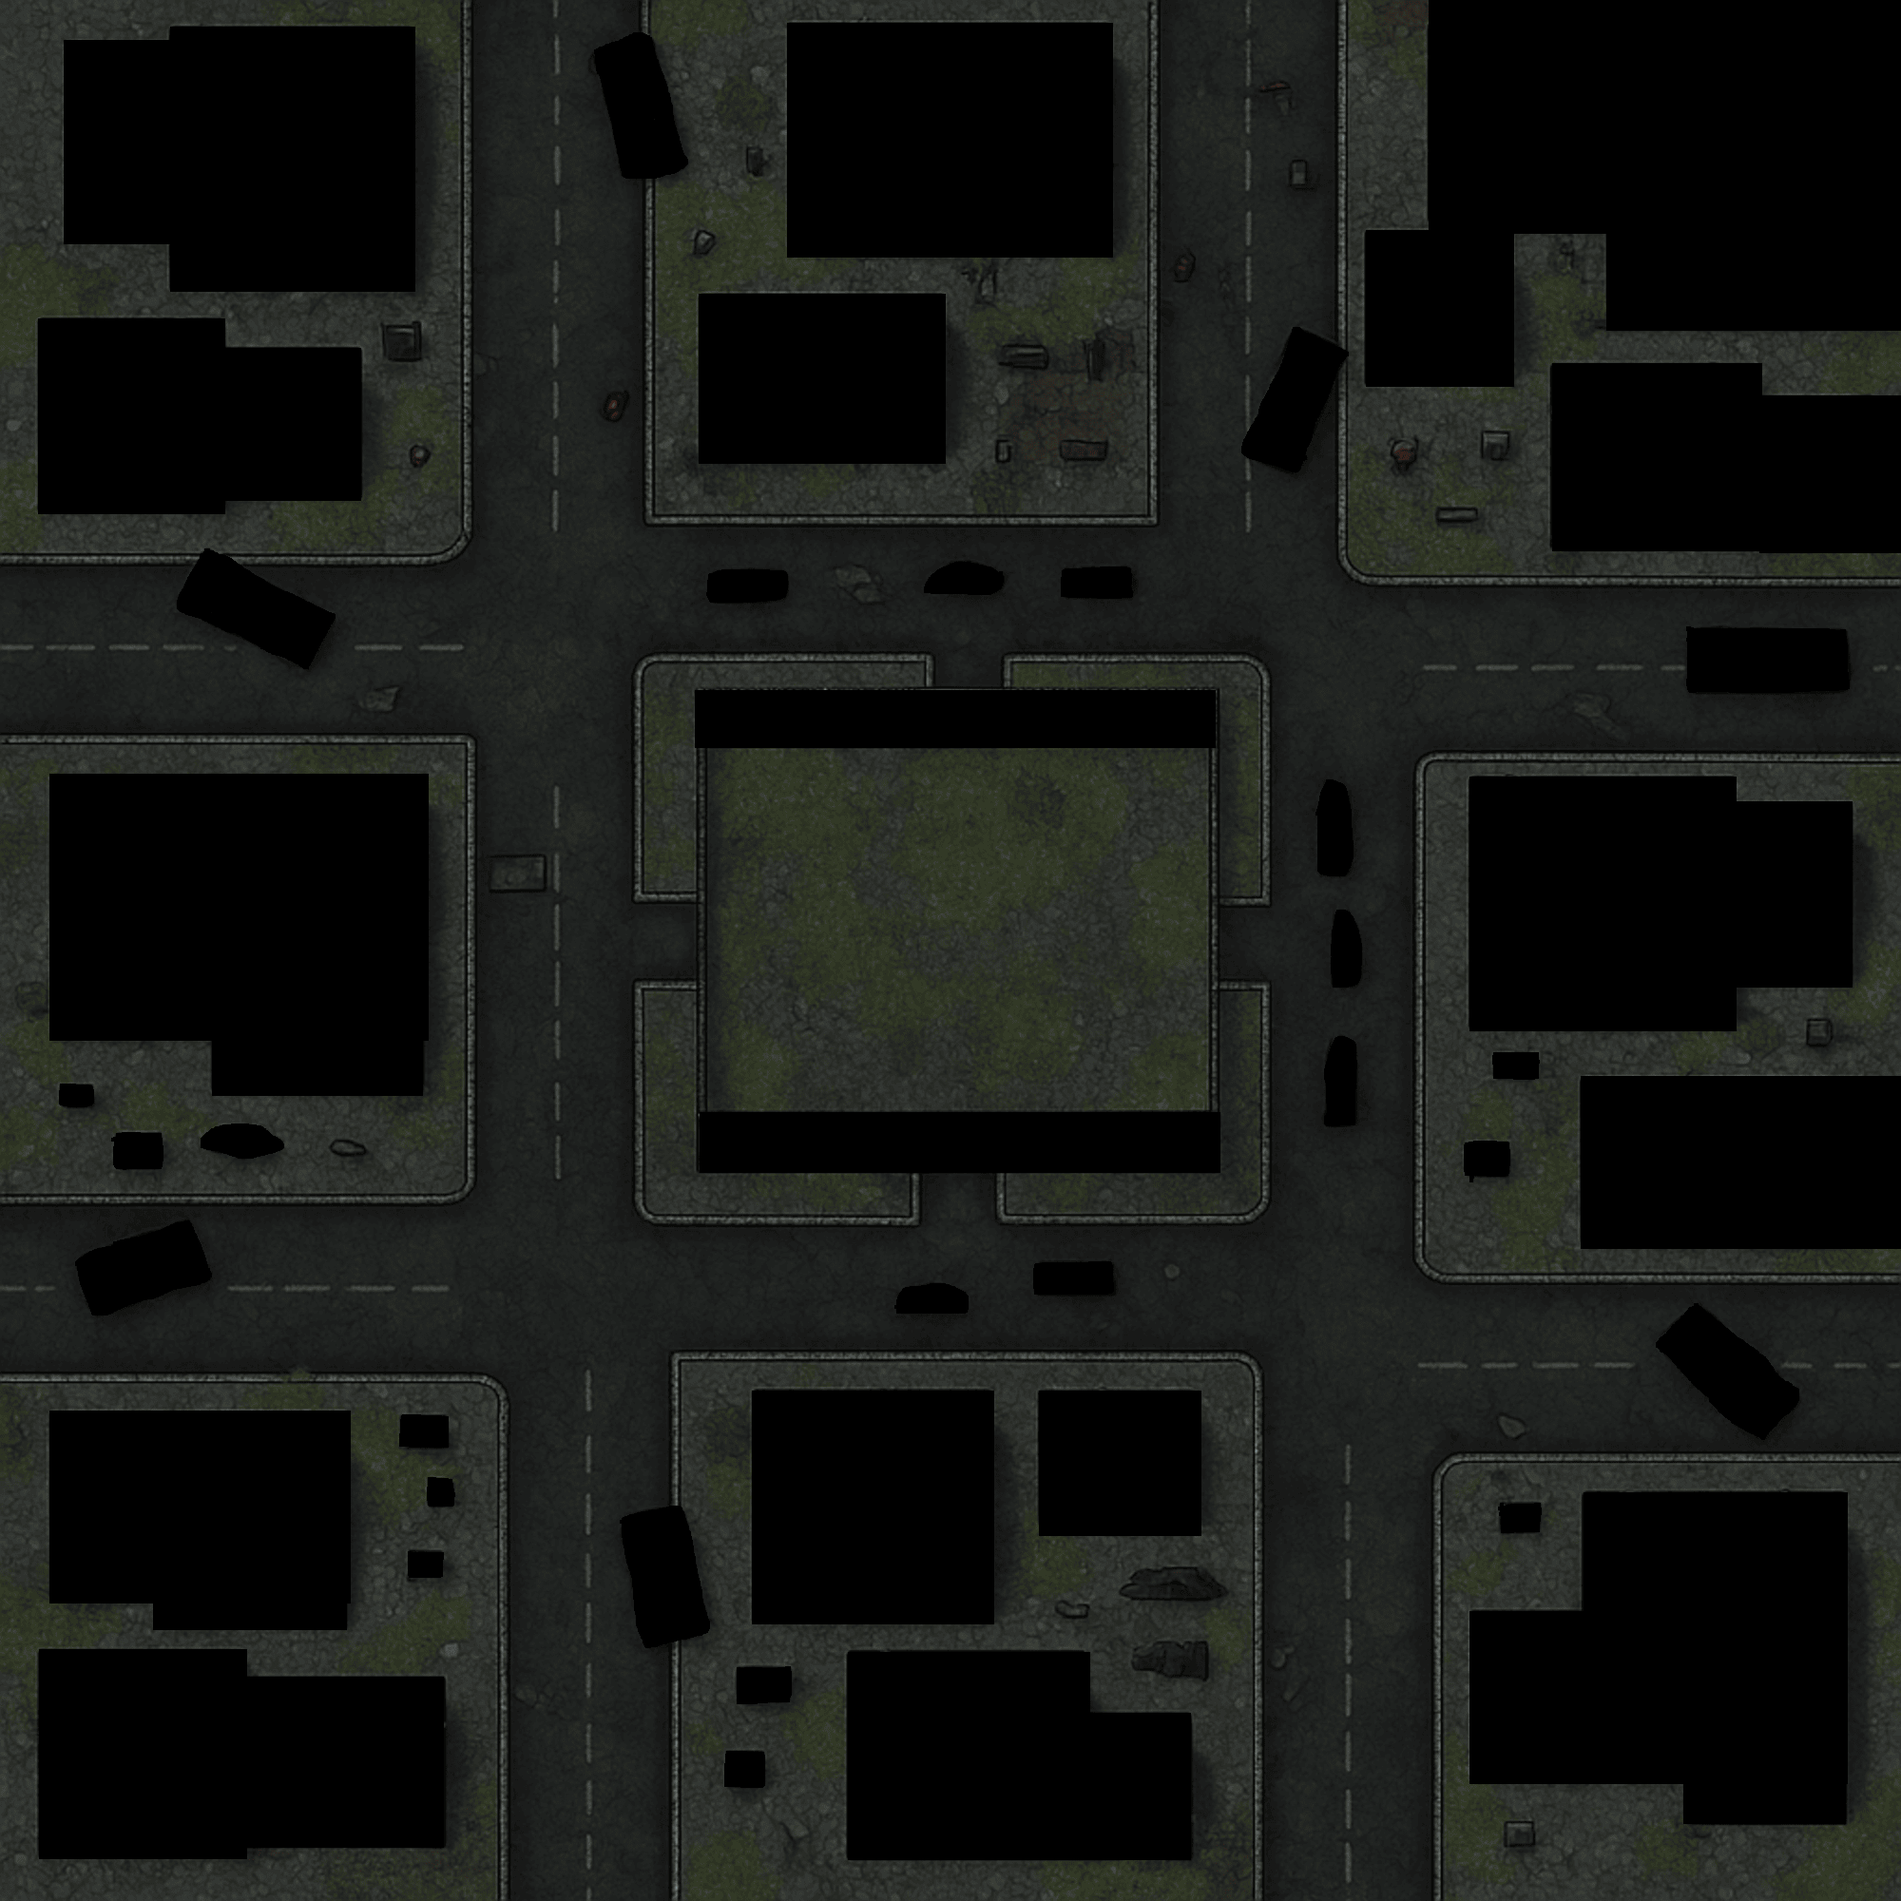
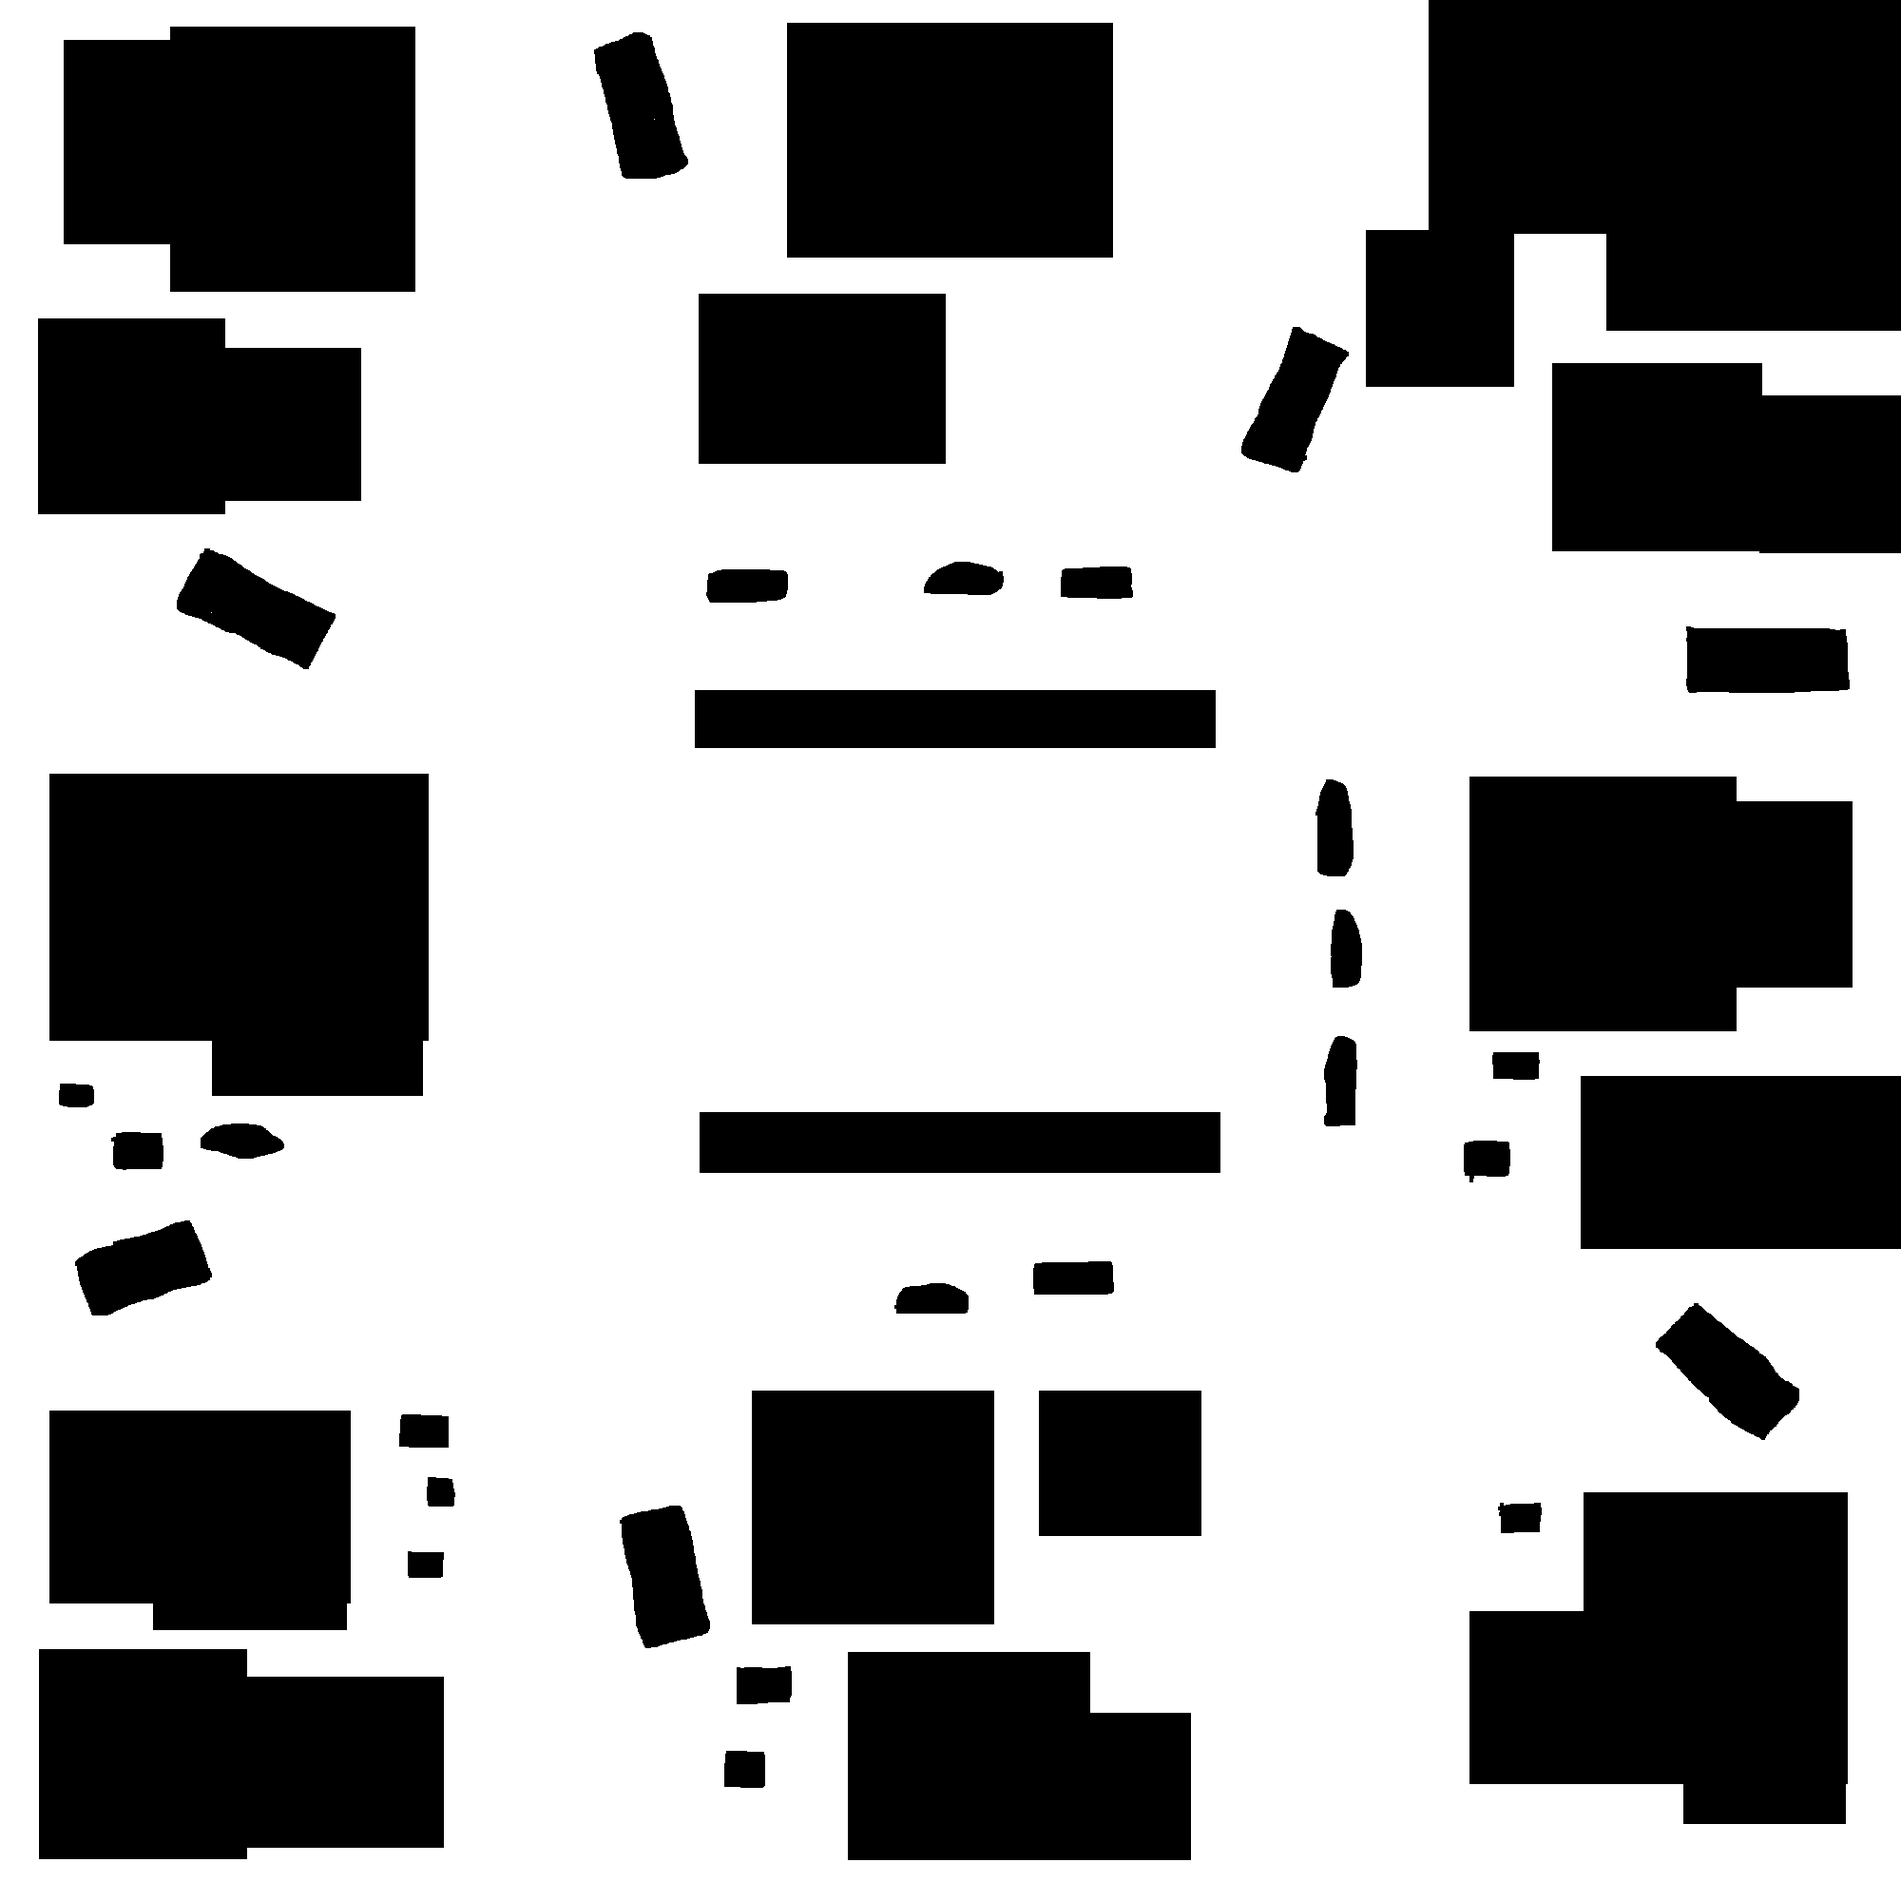
Zombie ai implemented

diff --git a/gameverse/client/src/ZombieArena/ZombieArena.js b/gameverse/client/src/ZombieArena/ZombieArena.js
@@ -23,6 +23,7 @@ import reload17 from "../assets/sprites/reloading/survivor-reload_rifle_16.png";
 import reload18 from "../assets/sprites/reloading/survivor-reload_rifle_17.png";
 import reload19 from "../assets/sprites/reloading/survivor-reload_rifle_18.png";
 import zombie from "../assets/sprites/zombie.png";
+import { aStar } from "./pathfinding";
 
 const CANVAS_WIDTH = 800;
 const CANVAS_HEIGHT = 600;
@@ -74,6 +75,8 @@ function ZombieArena() {
   const bgImageRef = useRef(new Image());
   const spriteImageRef = useRef(new Image());
   const bulletImageRef = useRef(new Image());
+  const pathfindingGridRef = useRef([]);
+  const isGridReadyRef = useRef(false);
   const reloadImages = useRef(
     RELOAD_FRAMES.map((src) => {
       const img = new Image();
@@ -113,32 +116,77 @@ function ZombieArena() {
     zombieSpriteRef.current.src = zombie;
     obstacleImageRef.current.src = mapImageObstacles;
     obstacleImageRef.current.onload = () => {
-      obstacleCanvasRef.current.width = obstacleImageRef.current.width;
-      obstacleCanvasRef.current.height = obstacleImageRef.current.height;
+      obstacleCanvasRef.current.width = WORLD_WIDTH;
+      obstacleCanvasRef.current.height = WORLD_HEIGHT;
       obstacleCtxRef.current = obstacleCanvasRef.current.getContext("2d");
-      obstacleCtxRef.current.drawImage(obstacleImageRef.current, 0, 0);
+      obstacleCtxRef.current.imageSmoothingEnabled = false;
+      obstacleCtxRef.current.mozImageSmoothingEnabled = false;
+      obstacleCtxRef.current.webkitImageSmoothingEnabled = false;
+      obstacleCtxRef.current.msImageSmoothingEnabled = false;
+
+      // FIX: draw the obstacle image at full world dimensions.
+      obstacleCtxRef.current.drawImage(
+        obstacleImageRef.current,
+        0,
+        0,
+        WORLD_WIDTH,
+        WORLD_HEIGHT
+      );
+
+      const tileSize = 16;
+      const grid = [];
+      const tilesX = Math.floor(WORLD_WIDTH / tileSize);
+      const tilesY = Math.floor(WORLD_HEIGHT / tileSize);
+
+      for (let y = 0; y < tilesY; y++) {
+        const row = [];
+        for (let x = 0; x < tilesX; x++) {
+          const centerX = x * tileSize + tileSize / 2;
+          const centerY = y * tileSize + tileSize / 2;
+          const pixel = obstacleCtxRef.current.getImageData(
+            Math.floor(centerX),
+            Math.floor(centerY),
+            1,
+            1
+          ).data;
+          const threshold = 50;
+          const isWhite =
+            pixel[0] > threshold &&
+            pixel[1] > threshold &&
+            pixel[2] > threshold;
+          row.push(isWhite ? 1 : 0);
+          console.log(`Pixel at (${centerX}, ${centerY}) =`, pixel);
+        }
+        grid.push(row);
+      }
+      pathfindingGridRef.current = grid;
+      pathfindingGridRef.current.width = grid[0].length;
+      pathfindingGridRef.current.height = grid.length;
+      const debugCanvas = document.createElement("canvas");
+      debugCanvas.width = WORLD_WIDTH;
+      debugCanvas.height = WORLD_HEIGHT;
+      const debugCtx = debugCanvas.getContext("2d");
+      for (let ty = 0; ty < tilesY; ty++) {
+        for (let tx = 0; tx < tilesX; tx++) {
+          debugCtx.fillStyle = grid[ty][tx] === 1 ? "green" : "red";
+          debugCtx.fillRect(tx * tileSize, ty * tileSize, tileSize, tileSize);
+        }
+      }
+      document.body.appendChild(debugCanvas);
+      isGridReadyRef.current = true;
     };
   }, []);
 
+  const tileSize = 16;
+
+  const isTileWalkable = (tx, ty) => {
+    return pathfindingGridRef.current[ty]?.[tx] === 1;
+  };
+
   const isWalkable = (x, y) => {
-    if (!obstacleCtxRef.current) return true;
-    const ix = Math.floor(x);
-    const iy = Math.floor(y);
-    const clampedX = Math.max(
-      0,
-      Math.min(obstacleCanvasRef.current.width - 1, ix)
-    );
-    const clampedY = Math.max(
-      0,
-      Math.min(obstacleCanvasRef.current.height - 1, iy)
-    );
-    const pixel = obstacleCtxRef.current.getImageData(
-      clampedX,
-      clampedY,
-      1,
-      1
-    ).data;
-    return pixel[0] > 0;
+    const tx = Math.floor(x / tileSize);
+    const ty = Math.floor(y / tileSize);
+    return isTileWalkable(tx, ty);
   };
 
   const shootBullet = () => {
@@ -332,60 +380,7 @@ function ZombieArena() {
       const cameraY = player.y - CANVAS_HEIGHT / 2;
       ctx.clearRect(0, 0, CANVAS_WIDTH, CANVAS_HEIGHT);
 
-      const time = Date.now();
-      if (time - lastWaveTimeRef.current >= 20000) {
-        waveRef.current++;
-        lastWaveTimeRef.current = time;
-        for (let i = 0; i < waveRef.current; i++) {
-          const spawnX = Math.random() * WORLD_WIDTH;
-          const spawnY = Math.random() * WORLD_HEIGHT;
-          zombiesRef.current.push({ x: spawnX, y: spawnY });
-        }
-      }
-
-      zombiesRef.current.forEach((zombie) => {
-        const dx = player.x - zombie.x;
-        const dy = player.y - zombie.y;
-        const dist = Math.hypot(dx, dy);
-        const speed = 0.3;
-
-        if (dist > 1) {
-          const directions = [
-            [1, 0],
-            [0, 1],
-            [-1, 0],
-            [0, -1],
-            [1, 1],
-            [1, -1],
-            [-1, 1],
-            [-1, -1],
-          ];
-
-          let bestStep = null;
-          let bestDist = dist;
-
-          for (let [dxMul, dyMul] of directions) {
-            const stepX = zombie.x + dxMul * speed;
-            const stepY = zombie.y + dyMul * speed;
-            if (isWalkable(stepX, stepY)) {
-              const newDist = Math.hypot(player.x - stepX, player.y - stepY);
-              if (newDist < bestDist) {
-                bestDist = newDist;
-                bestStep = { x: stepX, y: stepY };
-              }
-            }
-          }
-
-          if (bestStep) {
-            zombie.x = bestStep.x;
-            zombie.y = bestStep.y;
-          }
-        }
-
-        const angle = Math.atan2(player.y - zombie.y, player.x - zombie.x);
-        zombie.angle = angle;
-      });
-
+      // Draw background (only once)
       if (bgImageRef.current.complete) {
         ctx.drawImage(
           bgImageRef.current,
@@ -394,6 +389,101 @@ function ZombieArena() {
           WORLD_WIDTH,
           WORLD_HEIGHT
         );
+      }
+
+      const time = Date.now();
+      if (isGridReadyRef.current && time - lastWaveTimeRef.current >= 20000) {
+        waveRef.current++;
+        lastWaveTimeRef.current = time;
+
+        for (let i = 0; i < waveRef.current; i++) {
+          let spawnX, spawnY;
+          const tileSize = 16;
+          const gridW = pathfindingGridRef.current.width;
+          const gridH = pathfindingGridRef.current.height;
+          do {
+            const tx = Math.floor(Math.random() * gridW);
+            const ty = Math.floor(Math.random() * gridH);
+            spawnX = tx * tileSize + tileSize / 2;
+            spawnY = ty * tileSize + tileSize / 2;
+            if (
+              spawnX < 0 ||
+              spawnY < 0 ||
+              spawnX > WORLD_WIDTH ||
+              spawnY > WORLD_HEIGHT
+            ) {
+              continue;
+            }
+          } while (!isWalkable(spawnX, spawnY));
+
+          zombiesRef.current.push({ x: spawnX, y: spawnY, angle: 0 });
+          ctx.fillStyle = "rgba(255, 0, 0, 0.2)";
+          ctx.fillRect(
+            Math.floor(spawnX / tileSize) * tileSize - cameraX,
+            Math.floor(spawnY / tileSize) * tileSize - cameraY,
+            tileSize,
+            tileSize
+          );
+        }
+      }
+
+      zombiesRef.current.forEach((zombie) => {
+        const tileSize = 16;
+        const grid = pathfindingGridRef.current;
+        if (!grid.length) return;
+
+        const now = Date.now();
+        const zx = Math.floor(zombie.x / tileSize);
+        const zy = Math.floor(zombie.y / tileSize);
+        const px = Math.floor(player.x / tileSize);
+        const py = Math.floor(player.y / tileSize);
+
+        // Update the zombie's path every 1000ms or if it doesn't have one yet.
+        if (!zombie.path || now - zombie.lastPathUpdate > 1000) {
+          zombie.path = aStar(grid, [zx, zy], [px, py]);
+          zombie.lastPathUpdate = now;
+        }
+
+        // Ensure the path exists and has waypoints.
+        if (zombie.path && zombie.path.length > 1) {
+          // We use the second node in the path because the first is the zombie's current tile.
+          const [nextX, nextY] = zombie.path[1];
+          const targetX = nextX * tileSize + tileSize / 2;
+          const targetY = nextY * tileSize + tileSize / 2;
+          const dx = targetX - zombie.x;
+          const dy = targetY - zombie.y;
+          const dist = Math.hypot(dx, dy);
+          const speed = 0.5;
+
+          // When close enough to the target, remove it from the path so the next becomes active.
+          if (dist < speed) {
+            zombie.x = targetX;
+            zombie.y = targetY;
+            zombie.path.shift(); // Remove reached waypoint.
+          } else {
+            zombie.x += (dx / dist) * speed;
+            zombie.y += (dy / dist) * speed;
+          }
+          const targetAngle = Math.atan2(dy, dx);
+          const rotationSpeed = 0.01;
+          zombie.angle = lerpAngle(zombie.angle, targetAngle, rotationSpeed);
+        }
+      });
+
+      // Draw overlay grid
+      for (let ty = 0; ty < pathfindingGridRef.current.length; ty++) {
+        for (let tx = 0; tx < pathfindingGridRef.current[0].length; tx++) {
+          ctx.fillStyle =
+            pathfindingGridRef.current[ty][tx] === 1
+              ? "rgba(0,255,0,0.2)"
+              : "rgba(255,0,0,0.2)";
+          ctx.fillRect(
+            tx * tileSize - cameraX,
+            ty * tileSize - cameraY,
+            tileSize,
+            tileSize
+          );
+        }
       }
 
       bulletsRef.current.forEach((b) => {
@@ -438,6 +528,7 @@ function ZombieArena() {
     };
 
     requestAnimationFrame(loop);
+    // eslint-disable-next-line react-hooks/exhaustive-deps
   }, [gameStarted]);
 
   return (

diff --git a/gameverse/client/src/ZombieArena/pathfinding.js b/gameverse/client/src/ZombieArena/pathfinding.js
@@ -1,0 +1,90 @@
+export function aStar(grid, start, end) {
+  // 8-directional movement (including diagonals)
+  const dirs = [
+    [0, -1], // up
+    [1, -1], // up-right
+    [1, 0], // right
+    [1, 1], // down-right
+    [0, 1], // down
+    [-1, 1], // down-left
+    [-1, 0], // left
+    [-1, -1], // up-left
+  ];
+
+  const openSet = [start];
+  const closedSet = new Set();
+  const cameFrom = {};
+
+  const startKey = `${start[0]},${start[1]}`;
+  const gScore = { [startKey]: 0 };
+  const fScore = { [startKey]: heuristic(start, end) };
+
+  function heuristic(a, b) {
+    // Euclidean distance heuristic
+    const dx = b[0] - a[0];
+    const dy = b[1] - a[1];
+    return Math.sqrt(dx * dx + dy * dy);
+  }
+
+  while (openSet.length > 0) {
+    // Pick the node with the lowest fScore
+    let lowestIndex = 0;
+    for (let i = 1; i < openSet.length; i++) {
+      const key = `${openSet[i][0]},${openSet[i][1]}`;
+      const lowestKey = `${openSet[lowestIndex][0]},${openSet[lowestIndex][1]}`;
+      if ((fScore[key] || Infinity) < (fScore[lowestKey] || Infinity)) {
+        lowestIndex = i;
+      }
+    }
+
+    const current = openSet.splice(lowestIndex, 1)[0];
+    const currentKey = `${current[0]},${current[1]}`;
+
+    // Mark this node as processed
+    closedSet.add(currentKey);
+
+    // Goal reached; reconstruct path
+    if (current[0] === end[0] && current[1] === end[1]) {
+      const path = [current];
+      while (cameFrom[`${path[0][0]},${path[0][1]}`]) {
+        path.unshift(cameFrom[`${path[0][0]},${path[0][1]}`]);
+      }
+      return path;
+    }
+
+    // Explore neighbors
+    for (const [dx, dy] of dirs) {
+      const neighbor = [current[0] + dx, current[1] + dy];
+      const [x, y] = neighbor;
+      const neighborKey = `${x},${y}`;
+
+      // Skip if out of bounds, non-walkable, or already processed
+      if (
+        y < 0 ||
+        y >= grid.length ||
+        x < 0 ||
+        x >= grid[0].length ||
+        grid[y][x] === 0 ||
+        closedSet.has(neighborKey)
+      ) {
+        continue;
+      }
+
+      // Cost: diagonal moves cost more
+      const moveCost = dx !== 0 && dy !== 0 ? 1.4 : 1;
+      const tentativeG = gScore[currentKey] + moveCost;
+
+      if (tentativeG < (gScore[neighborKey] || Infinity)) {
+        cameFrom[neighborKey] = current;
+        gScore[neighborKey] = tentativeG;
+        fScore[neighborKey] = tentativeG + heuristic(neighbor, end);
+        if (!openSet.some((n) => n[0] === x && n[1] === y)) {
+          openSet.push(neighbor);
+        }
+      }
+    }
+  }
+
+  // No path found
+  return [];
+}
